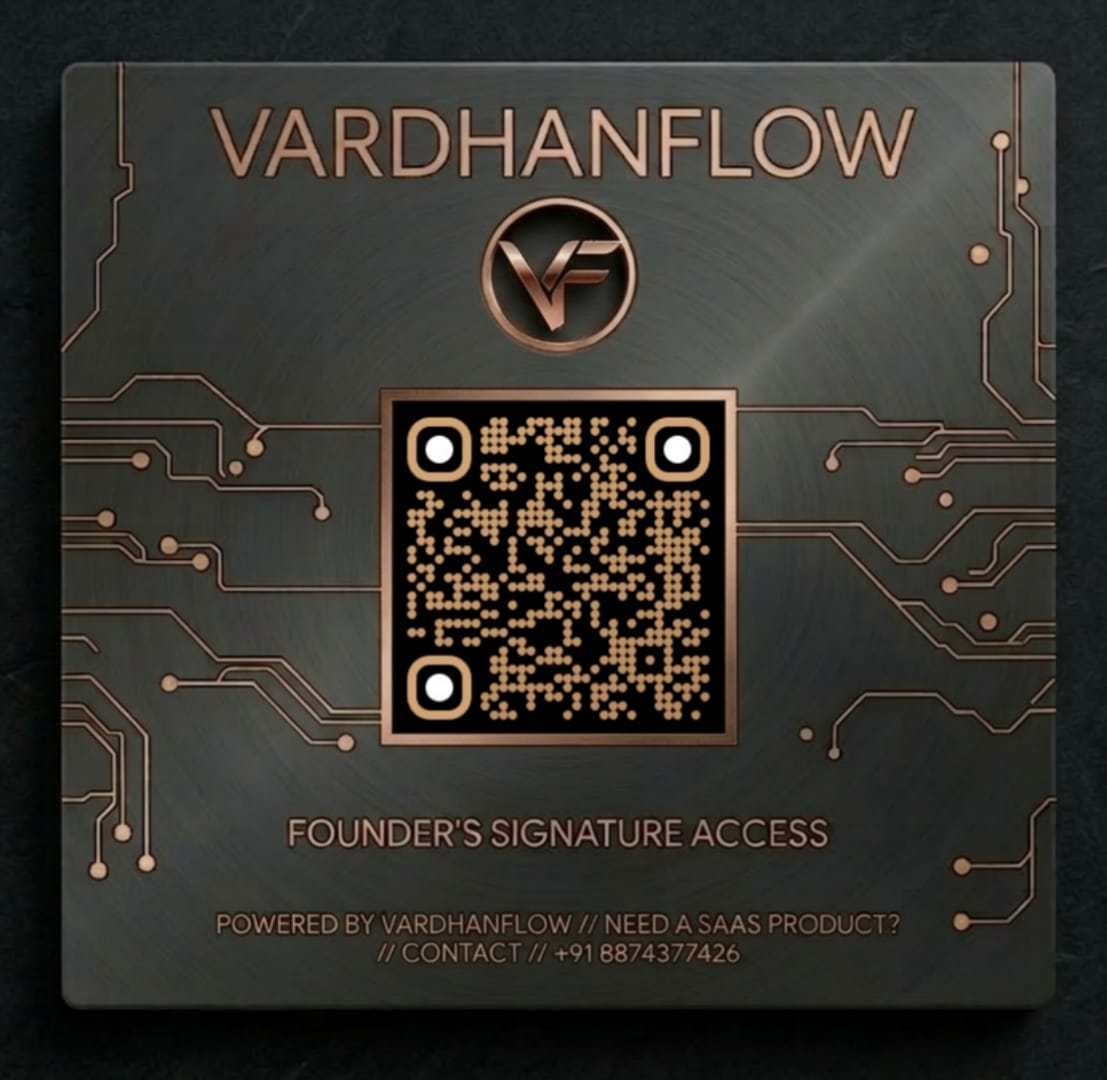
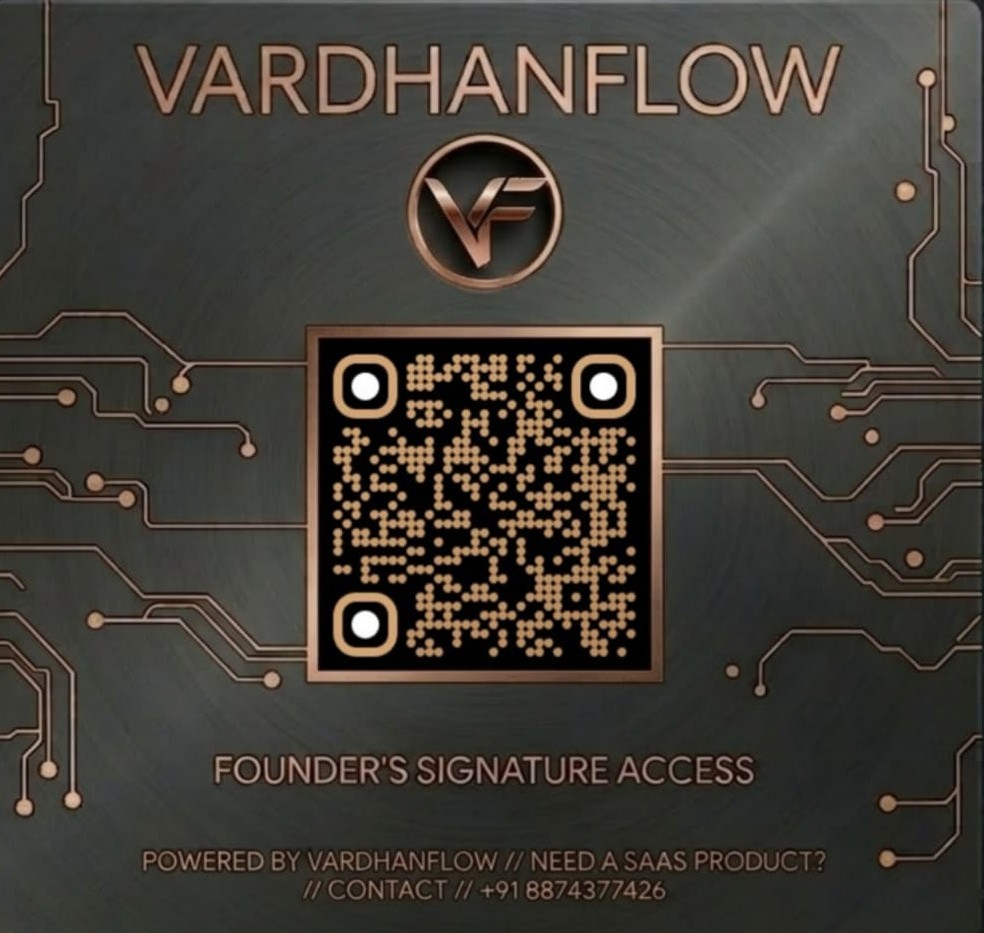
UI Fix: Eradicated split background bug on mobile and corrected QR frame scaling

diff --git a/components/product-showcase.tsx b/components/product-showcase.tsx
@@ -56,10 +56,10 @@ export function ProductShowcase() {
         </div>
 
         {/* Main Product Card: SMART QR MENU */}
-        <div id="smart-qr-menu" className="group relative overflow-hidden rounded-[2rem] border border-[#d4a574]/30 bg-black shadow-[0_0_30px_rgba(212,165,116,0.15)] transition-all duration-500 hover:border-[#d4a574]/50 hover:shadow-[0_0_40px_rgba(212,165,116,0.25)]">
+        <div id="smart-qr-menu" className="group relative overflow-hidden rounded-[2rem] border border-[#d4a574]/30 bg-black shadow-[0_0_30px_rgba(212,165,116,0.15)]">
           <div className="grid gap-0 md:grid-cols-2">
             
-            {/* Left Content: The Logic */}
+            {/* Left Content */}
             <div className="flex flex-col justify-center p-10 sm:p-16 relative z-10 bg-black">
               <div className="mb-6 inline-flex items-center gap-2">
                 <span className="h-[1px] w-8 bg-[#d4a574]" />
@@ -70,11 +70,6 @@ export function ProductShowcase() {
                 Smart QR <br/> Menu Revolution
               </h3>
               
-              <p className="mb-10 text-lg font-medium text-zinc-400 leading-relaxed">
-                Empower your hospitality brand with a high-performance digital menu ecosystem.
-              </p>
-
-              {/* Specs Table */}
               <div className="mb-12 space-y-6">
                 <div className="rounded-2xl border border-white/5 bg-white/5 p-8 space-y-6">
                   <div className="space-y-4">
@@ -94,33 +89,6 @@ export function ProductShowcase() {
                       </div>
                     </div>
                   </div>
-
-                  {/* High-contrast dashed line separator */}
-                  <div className="h-[1px] w-full border-t border-dashed border-[#d4a574]/20" />
-
-                  <div className="space-y-4">
-                    <h4 className="text-[11px] font-black uppercase tracking-[0.2em] text-[#d4a574]">Monthly Orchestration</h4>
-                    <div className="grid gap-3 text-sm">
-                      <div className="flex justify-between items-center text-zinc-400 font-bold uppercase tracking-widest text-[10px]">
-                        <span>Standard Tier</span>
-                        <span className="text-white">₹199</span>
-                      </div>
-                      <div className="flex justify-between items-center text-zinc-400 font-bold uppercase tracking-widest text-[10px]">
-                        <span>Extended Tier</span>
-                        <span className="text-white">₹299</span>
-                      </div>
-                      <div className="flex justify-between items-center text-zinc-400 font-bold uppercase tracking-widest text-[10px]">
-                        <span>Enterprise Tier</span>
-                        <span className="text-white">₹399</span>
-                      </div>
-                    </div>
-                  </div>
-                </div>
-
-                <div className="p-4 rounded-xl border border-[#d4a574]/10 bg-[#d4a574]/5">
-                  <p className="text-[10px] leading-relaxed text-zinc-500 uppercase font-bold tracking-widest text-center">
-                    Physical Handover: Premium QR included (Local) | Global: ₹70 Credit
-                  </p>
                 </div>
               </div>
 
@@ -134,27 +102,18 @@ export function ProductShowcase() {
               </button>
             </div>
 
-            {/* Right Side: The NEW Visual (Re-engineered for Square Fit) */}
-            <div className="relative min-h-[600px] flex items-center justify-center overflow-hidden bg-black border-l border-[#d4a574]/10">
+            {/* Right Side: Visual Side (Fixed Mobile Stacking & Zoom) */}
+            <div className="relative flex items-center justify-center bg-black p-8 sm:p-12 lg:p-16">
               
-              {/* Internal Halos (Replaced text with pure lighting) */}
-              <div className="absolute inset-0 z-0 bg-gradient-to-br from-[#d4a574]/10 via-black to-black" />
-              <div className="absolute top-1/2 left-1/2 -translate-x-1/2 -translate-y-1/2 h-[400px] w-[400px] bg-[#d4a574]/5 blur-[120px]" />
-
-              {/* The "Glow Border Placeholder" (Re-engineered Square Mount) */}
-              {/* Blue Border Fix: Added outline-none and focus:outline-none */}
-              <div className="relative z-10 aspect-square w-[85%] max-w-[450px] rounded-3xl border border-[#d4a574]/30 p-2 shadow-[0_0_60px_rgba(212,165,116,0.2)] bg-black group-hover:border-[#d4a574]/60 transition-colors duration-500 outline-none focus:outline-none">
-                
-                {/* Internal obsidian-mount border */}
-                <div className="relative h-full w-full overflow-hidden rounded-[1.25rem] bg-transparent shadow-inner">
-                    <Image
-                        src="/vardhanflow_demo.jpeg" // Assume you have replaced this file on disk with image_5.png
-                        alt="VardhanFlow Sovereign QR frame"
-                        fill
-                        className="object-fill p-3" // object-fill forces the image to stretch to fit the perfectly square container, removing all gaps
-                        priority
-                    />
-                </div>
+              {/* The Frame Placeholder - Perfect Fit Zoom */}
+              <div className="relative z-10 aspect-square w-full max-w-[400px] rounded-3xl border border-[#d4a574]/40 bg-black overflow-hidden shadow-[0_0_40px_rgba(212,165,116,0.2)]">
+                <Image
+                  src="/vardhanflow_demo.jpeg"
+                  alt="VardhanFlow QR Frame"
+                  fill
+                  className="object-cover scale-[1.05] transition-transform duration-700 group-hover:scale-110"
+                  priority
+                />
               </div>
             </div>
 
@@ -166,7 +125,8 @@ export function ProductShowcase() {
           <p className="text-[10px] font-bold text-zinc-600 uppercase tracking-[0.5em]">Future Engineering Pipelines incoming...</p>
         </div>
       </div>
-      {/* Seamless Bottom Transition: Fades black parent card into section bottom */}
+
+      {/* Seamless Bottom Transition */}
       <div className="absolute bottom-0 left-0 w-full h-32 bg-gradient-to-t from-[#0a0a0a] to-transparent pointer-events-none" />
     </section>
   );
